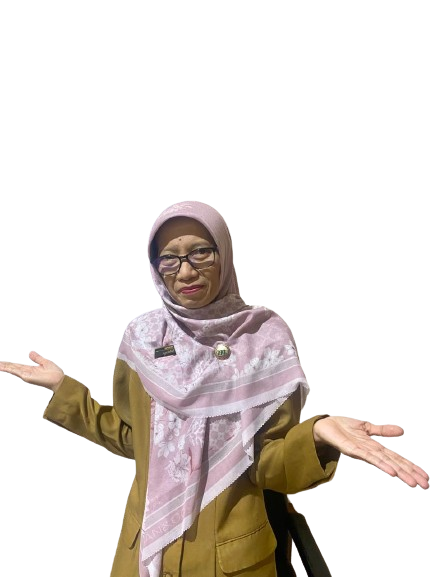
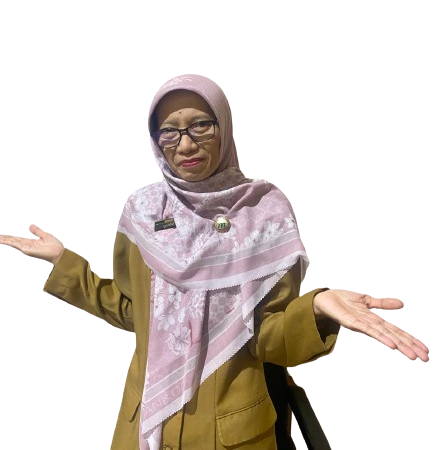
fix fix

Changed region(s): [[0.0, 0.1556, 0.9908, 1.0], [0.7506, 0.9644, 0.7806, 0.9956], [0.2402, 0.9333, 0.2702, 0.9644]]

diff --git a/css/style.css b/css/style.css
@@ -76,11 +76,13 @@ html {
 #sambutan {
   padding-top: 70px; /* Adjust this value to ensure the section is not covered by the navbar */
 }
-#sambutan img {
-  margin-top: 5em;
-  height: 80%;
-  width: auto;
+
+.bigger-img {
+  width: 100%;
+  max-width: 400px; /* Atur sesuai dengan kebutuhan Anda */
+  margin-top: -30px; /* Pindahkan gambar sedikit ke atas */
 }
+
 #staff-jabatan .row .col-md-3 {
   display: flex;
   flex-direction: column;

diff --git a/js/scripts.js b/js/scripts.js
@@ -23,6 +23,14 @@ $(document).ready(function () {
     } // End if
   });
 
+  // course
+  $(document).ready(function () {
+    $(".carousel").carousel({
+      interval: 5000, // Atur interval ke 5 detik (5000ms)
+      pause: "hover", // Carousel akan berhenti saat hover
+    });
+  });
+
   // Filter functionality
   $(".filter-button").click(function () {
     var value = $(this).attr("data-filter");

diff --git a/index.php b/index.php
@@ -48,7 +48,7 @@
     </nav>
 
     <!-- Carousel -->
-    <div id="figure" class="carousel slide" data-ride="carousel">
+    <div id="figure" class="carousel slide" data-ride="carousel" data-interval="3000">
         <ol class="carousel-indicators">
             <li data-target="#figure" data-slide-to="0" class="active"></li>
             <li data-target="#figure" data-slide-to="1"></li>
@@ -98,12 +98,13 @@
         </a>
     </div>
 
+
     <!-- Sambutan Kepala Bidang Seksi SMA -->
     <div class="container my-5 animate" id="sambutan">
         <h2 class="text-center">SAMBUTAN KEPALA BIDANG SEKSI SMA</h2>
-        <div class="row">
-            <div class="col d-flex flex-column align-items-center mb-5">
-                <img src="img/sambutan_kepala.png" class="img-fluid rounded" alt=" Kepala Bidang Seksi SMA" />
+        <div class="row align-items-center">
+            <div class="col-md-4 d-flex flex-column align-items-center mb-5">
+                <img src="img/sambutan_kepala.png" class="img-fluid rounded bigger-img" alt="Kepala Bidang Seksi SMA" />
             </div>
             <div class="col-md-8 text-justify my-5">
                 <h4>Assalamu'alaikum warahmatullahi wabarakatuh</h4>
@@ -124,7 +125,7 @@
                 <p>
                     Melalui website ini, kami berusaha menyediakan informasi yang
                     akurat, terkini, dan bermanfaat. Anda akan menemukan berbagai
-                    program dan kegiatan,serta capaian-capaian yang telah diraih. Kami
+                    program dan kegiatan, serta capaian-capaian yang telah diraih. Kami
                     mengajak Anda untuk terus mendukung upaya kami dalam mencerdaskan
                     kehidupan bangsa dan memajukan prestasi olahraga di Daerah Istimewa
                     Yogyakarta. Mari kita wujudkan cita-cita bersama untuk masa depan
@@ -139,6 +140,7 @@
             </div>
         </div>
     </div>
+
 
     <!-- visi misi motto -->
     <div class="container my-5 animate" id="visi-misi">
@@ -392,6 +394,7 @@
     <script src="https://cdn.jsdelivr.net/npm/@popperjs/core@2.5.3/dist/umd/popper.min.js"></script>
     <script src="https://stackpath.bootstrapcdn.com/bootstrap/4.5.2/js/bootstrap.min.js"></script>
     <script src="js/scripts.js"></script>
+
 
 </body>
 
